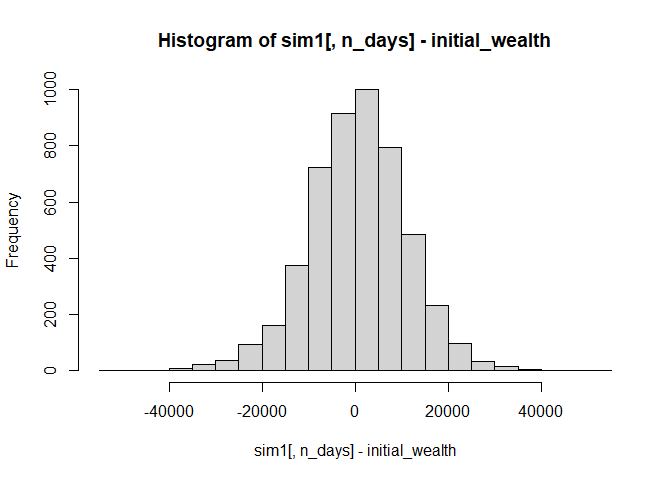
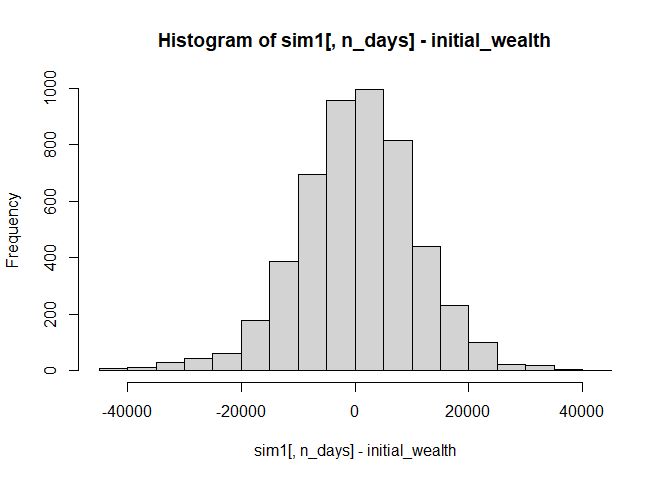
Recompiled the markdown file

diff --git a/Solutions.md b/Solutions.md
@@ -23,22 +23,23 @@ truthful clickers answered yes? Hint: use the rule of total probability.
 > find the value of *P*(*Y*\|*T*<sub>*c*</sub>)
 >
 > We know that, <br>
-> *P*(*Y*) = *P*(*Y*\|*R*<sub>*c*</sub>) + *P*(*Y*\|*T*<sub>*c*</sub>)
+> *P*(*Y*) = *P*(*Y*\|*R*<sub>*c*</sub>).*P*(*R*<sub>*c*</sub>) + *P*(*Y*\|*T*<sub>*c*</sub>).*P*(*T*<sub>*c*</sub>)
 >
 > Rearranging, <br>
-> *P*(*Y*\|*T*<sub>*c*</sub>) = *P*(*Y*) − *P*(*Y*\|*R*<sub>*c*</sub>)
+> $P(Y\|T\_{c}) = \frac{ P(Y) - P(Y\|R\_{c}).P(R\_{c}) }{P(T\_{c})}$
 >
 > If a random clicker clicking *Yes* or *No* is equally likely, then the
 > probability (or fraction) of Random clickers, clicking yes \> is
 > (Fraction of users among the 0.3 random clickers, clicking *Yes*),
-> <br> *P*(*Y*\|*R*<sub>*c*</sub>) = 0.5 \* 0.3 = 0.15
+> <br>
+> *P*(*Y*\|*R*<sub>*c*</sub>).*P*(*R*<sub>*c*</sub>) = *P*(*Y*∩*R*<sub>*c*</sub>) = 0.5 \* 0.3 = 0.15
 >
 > Substituting in the rearranged equation, <br>
-> *P*(*Y*\|*T*<sub>*c*</sub>) = 0.65 − 0.15 <br>
-> *P*(*Y*\|*T*<sub>*c*</sub>) = 0.5
+> $P(Y\|T\_{c}) = \frac{0.65 - 0.15}{0.7}$ <br>
+> *P*(*Y*\|*T*<sub>*c*</sub>) = 0.7143
 >
 > Therefore, the fraction of clickers among truthful clickers who
-> clicked yes would be **0.5**
+> clicked yes would be **0.7143**
 
 ## Part. B
 
@@ -477,16 +478,16 @@ $100K capital equally and then find the sum to compute our new total
 wealth at the end of a random day.
 
     ##            ClCl.USOa ClCl.UNGa ClCl.OILKa ClCl.GAZa ClCl.RJNa
-    ## 2021-04-01  20646.44  20250.52    20638.9  20200.33  20406.09
+    ## 2018-01-04  20048.62  19187.82   20144.86     20000  19929.82
 
-    ## [1] 102142.3
+    ## [1] 99311.13
 
 So as we can see on a random day we went from $100,000 in capital to the
 output.
 
 We then observed the change over a time period of two weeks.
 
-    ## [1] 108580.6
+    ## [1] 89136.17
 
 ![](Solutions_files/figure-markdown_github/5e-1.png)
 
@@ -495,40 +496,40 @@ So we can see the change in our capital over the time of 20 days.
 So now we bootstrap this model.
 
     ##               [,1]      [,2]      [,3]      [,4]      [,5]      [,6]      [,7]
-    ## result.1 101808.29 101785.39  98828.47  99548.83  99692.52  99801.02  99549.29
-    ## result.2 100045.72  99322.90 100570.66 101357.61 102474.53 105481.68 107682.10
-    ## result.3 100050.13 100659.60 100436.76 103235.09 101999.01 102369.20 104046.81
-    ## result.4 101504.84 101496.10 101203.75 100463.13 100813.36 100578.94 100064.92
-    ## result.5  99640.78 104848.76 104569.78 104768.20 104762.68 104139.09 105010.67
-    ## result.6  98814.49  99730.43  97932.11  99658.97  99076.46 102565.13 103201.71
-    ##               [,8]      [,9]    [,10]     [,11]    [,12]    [,13]    [,14]
-    ## result.1 100803.58 103367.90 103043.1 104519.19 104631.1 105398.8 109154.3
-    ## result.2 107830.73 107893.20 108543.8 106065.61 106119.2 106101.0 106900.8
-    ## result.3 106052.89 108399.09 112568.1 110490.95 105275.8 104560.5 105604.6
-    ## result.4 100355.11 101754.97 103103.6 101982.29 102683.6 103064.8 102329.8
-    ## result.5 111152.48 110954.61 110556.3 110519.18 105873.2 106786.6 108426.0
-    ## result.6  96884.16  96458.59  98875.8  98939.17 100578.8 100068.0 100836.6
+    ## result.1 100989.40 102100.33 102360.68 102114.07 100530.00 102116.26 101845.80
+    ## result.2 100849.19 100610.43 102317.43 102659.90 104695.37 102995.76 102140.23
+    ## result.3  98526.21  96178.98  93428.07  96118.63  97365.90  96107.42  92910.20
+    ## result.4 101207.14 101357.41 103097.15 102404.62 102438.06 103526.79 103680.58
+    ## result.5 100013.65 101636.12 103396.15 102946.00 103465.55 104633.22 104505.64
+    ## result.6 100381.62 100430.27 100496.29 101030.80  99386.44  99028.49  96227.49
+    ##               [,8]      [,9]    [,10]     [,11]     [,12]     [,13]     [,14]
+    ## result.1 103459.96 104645.22 100487.2  92906.51  91412.11  92057.06  89512.86
+    ## result.2 102781.37 102036.55 102834.1 100625.47  99878.43 100573.82 101892.06
+    ## result.3  91971.84  92421.26  92250.6  92960.33  94130.89  92343.75  92905.43
+    ## result.4 102853.14 101428.12 101687.9  72747.64  72857.11  73765.71  74222.99
+    ## result.5 103014.29 106120.36 106868.1 107190.42 106443.46 105931.99 105379.57
+    ## result.6  96215.88  94978.26 101160.5 102550.97 103522.16 106377.94 105283.09
     ##              [,15]     [,16]     [,17]     [,18]     [,19]     [,20]
-    ## result.1 111549.81 111213.55 112641.87 112116.52 112340.65 114050.07
-    ## result.2 106160.55 106793.98 107106.84 107775.77 107286.37 107961.36
-    ## result.3 107073.31 108525.18 109447.67 108791.49 110962.28 111289.85
-    ## result.4 102137.68 102400.68 101277.26  98221.75  99616.15 100721.42
-    ## result.5  98318.53  97516.12  98087.07  96965.91  95772.41  96393.26
-    ## result.6 102068.15  99790.70  99990.09  99762.98  96070.27  94823.14
+    ## result.1  91090.06  93646.21  94201.86  95119.60  94996.29  95985.08
+    ## result.2 102076.07 102724.75 103453.78 100697.30  97773.06  99993.50
+    ## result.3  92820.57  95151.59  94484.20  94953.78  95563.47  96276.36
+    ## result.4  73358.90  73799.80  74788.87  74802.03  75188.45  71871.48
+    ## result.5 104043.04 102144.35 100705.52  99609.42  98684.32  99774.72
+    ## result.6 104779.26 105171.13 104385.29 103599.42 101880.57 101297.27
 
 ![](Solutions_files/figure-markdown_github/5f-1.png)
 
 So we can see the distribution of capital after bootstrapping. It is
 mostly normal.
 
-    ## [1] 100573.7
+    ## [1] 100395.9
 
-    ## [1] 573.6578
+    ## [1] 395.8743
 
 ![](Solutions_files/figure-markdown_github/5g-1.png)
 
     ##        5% 
-    ## -16577.25
+    ## -16780.43
 
 So this is our ultimate gain/loss, which can vary from time to time.
 
@@ -569,16 +570,16 @@ capital equally and then find the sum to compute our new total wealth at
 the end of a random day.
 
     ##            ClCl.VTOa ClCl.IEMGa ClCl.GEMa ClCl.DEMa ClCl.PXHa
-    ## 2021-04-09  20834.22   19831.55  19855.25  19842.48  19831.56
+    ## 2021-10-15  19924.24   20250.99  20170.03  20102.66  20200.35
 
-    ## [1] 100195.1
+    ## [1] 100648.3
 
 So as we can see on a random day we went from $100,000 in capital to
 output \[1\]. This amount varies from day to day.
 
 We then observed the change over a time period of two weeks.
 
-    ## [1] 96619.27
+    ## [1] 99867.22
 
 ![](Solutions_files/figure-markdown_github/5l-1.png)
 
@@ -586,41 +587,41 @@ So we can see the change in our capital over the time of 20 days.
 
 So now we bootstrap this model.
 
-    ##               [,1]      [,2]      [,3]      [,4]      [,5]      [,6]      [,7]
-    ## result.1  98554.22  98128.01  98234.84  98176.70  97127.19  98207.35  98561.66
-    ## result.2 100834.10 101449.46 102195.68 100765.33  99633.36  99519.99  99423.39
-    ## result.3 101874.64 101861.63 102304.81 102467.09 104116.18 103008.67 102499.69
-    ## result.4 100460.82 100213.10  99027.44  99001.77  98754.29  97630.51  97026.05
-    ## result.5 100430.22 101800.72 102217.79 103680.91 103926.77 103752.29 105977.03
-    ## result.6  99892.15  99673.65 100418.31 100824.99 101471.65 102113.20  97455.37
+    ##               [,1]      [,2]      [,3]     [,4]      [,5]      [,6]      [,7]
+    ## result.1 100491.29 100642.68 100760.12 102671.0 103132.11 103182.49 101342.30
+    ## result.2  99372.05  99382.29  99892.92 101066.1 101266.12 100963.79  99750.27
+    ## result.3  98332.92  98027.08  96449.08  94707.8  94652.51  95387.62  95968.30
+    ## result.4 101102.95 101721.62 101113.94 100835.5 101432.60 100406.98 100964.53
+    ## result.5 100477.43 101171.34 100791.21 100838.8 100100.92  98830.90  99287.10
+    ## result.6 101347.27 101874.21 101875.70 101785.5 101356.79 101458.29 101498.04
     ##               [,8]      [,9]     [,10]     [,11]     [,12]     [,13]     [,14]
-    ## result.1  97531.65  96073.34  95667.56  95917.66  96227.76  96093.04  97934.11
-    ## result.2 100272.06 100110.90 100710.74 100209.88 100023.85  99572.50  99066.42
-    ## result.3 103210.87 103714.86 103401.93 102966.85 102768.12 103581.35 102409.68
-    ## result.4  98199.88  99444.47  99400.65  99512.62  99850.29  98575.71  98192.49
-    ## result.5 107605.72 109165.65 109428.95 110332.28 110607.59 110889.29 111584.26
-    ## result.6  98530.32  98604.02  98908.84  98374.34  99235.94 100205.59 100817.84
+    ## result.1 101469.20 101328.34 101896.32 102709.97 103778.54 105058.60 106051.00
+    ## result.2  99862.16 100708.48 101581.01 103386.52 102371.01 104136.36 103657.46
+    ## result.3  95529.98  94907.61  94642.96  95635.30  96069.71  95237.51  95180.39
+    ## result.4 102368.54 103197.48 104253.28 102669.77 102319.16 102753.42 104026.78
+    ## result.5  98896.95  99398.40  98392.20  99293.98 100205.47 101045.22 100244.01
+    ## result.6 101212.98 101635.30 101260.90 100007.88  99717.38  99067.60  97506.18
     ##              [,15]     [,16]     [,17]     [,18]     [,19]     [,20]
-    ## result.1  99256.11  99087.64  98464.69  97517.44  97043.69  97286.42
-    ## result.2  99577.84  98737.25  99742.07  98902.29  99234.95 100424.75
-    ## result.3 102701.65 103745.29 103908.06 104454.76 104520.74 102749.56
-    ## result.4  97999.09  98528.89  97369.97  97483.24  97339.62  94936.97
-    ## result.5 112782.10 113440.81 113754.51 114324.59 115505.60 114958.56
-    ## result.6 101367.43 101299.92 101239.97 101699.49 101193.48 106809.53
+    ## result.1 105486.08 105943.69 104836.69 103903.95 103451.62 103694.98
+    ## result.2 103724.97 103838.65 103732.05 104180.59 104100.17 105115.11
+    ## result.3  94654.48  95933.16  96666.36  96988.34  96639.29  97429.17
+    ## result.4 105988.75 107528.39 106124.06 105946.41 107235.24 107190.79
+    ## result.5 100796.01 101765.27 100295.45 100792.24 100928.03 101156.60
+    ## result.6  98825.53  99600.34  99996.77  99864.89  99273.61  98033.50
 
 ![](Solutions_files/figure-markdown_github/5m-1.png)
 
 So we can see the distribution of capital after bootstrapping. It is
 mostly normal.
 
-    ## [1] 100586.7
+    ## [1] 100494.8
 
-    ## [1] 586.6699
+    ## [1] 494.8226
 
 ![](Solutions_files/figure-markdown_github/5n-1.png)
 
     ##        5% 
-    ## -7832.953
+    ## -7981.886
 
 So our ultimate gain/loss would be output \[1\]. This could vary due to
 randomization in bootstrapping.
@@ -661,16 +662,16 @@ capital equally and then find the sum to compute our new total wealth at
 the end of a random day.
 
     ##            ClCl.XHEa ClCl.PSCHa ClCl.IHEa ClCl.PBEa ClCl.FHLCa
-    ## 2018-02-09  20200.97    20262.4  20223.25  20111.02   20274.88
+    ## 2020-12-14   19946.4   20075.87  19944.82  20782.73   19915.67
 
-    ## [1] 101072.5
+    ## [1] 100665.5
 
 So as we can see on a random day we went from $100,000 in capital to
 output\[1\].
 
 We then observed the change over a time period of two weeks.
 
-    ## [1] 97318.17
+    ## [1] 95815.05
 
 ![](Solutions_files/figure-markdown_github/5s-1.png)
 
@@ -678,41 +679,41 @@ So we can see the change in our capital over the time of 20 days.
 
 So now we bootstrap this model.
 
-    ##               [,1]      [,2]     [,3]      [,4]     [,5]      [,6]      [,7]
-    ## result.1 100308.84 100232.35 100247.1  99510.29  99607.9  99839.79 100055.62
-    ## result.2 100807.96 100465.35 100124.5 100111.94 100126.1 100671.27 100388.47
-    ## result.3  99486.52 100806.16 101154.0 101802.58 101752.4 100139.85 100737.51
-    ## result.4  99458.88  99518.47 100809.3 101343.25  97787.1  96638.45  97111.94
-    ## result.5  99643.44 100532.66 100696.4 100382.91 101522.4 100202.35  98574.88
-    ## result.6 100131.97 101439.11 101494.2 100487.44 100545.6 102565.05 103668.56
-    ##               [,8]     [,9]     [,10]     [,11]     [,12]     [,13]     [,14]
-    ## result.1 100522.28 101437.7 101460.18 102592.91 102552.56 101035.22 101364.38
-    ## result.2 102937.87 102428.0 103475.25 103261.23 104246.13 104225.26 104745.68
-    ## result.3 101486.83 101755.6 102073.11 102171.39 101863.26  99918.41 100341.58
-    ## result.4  94527.26  95637.7  95885.57  95602.74  95778.32  97051.05  97628.77
-    ## result.5  98256.98  97285.1  99495.85 102202.96 103401.38 103360.51 103980.25
-    ## result.6 105067.21 105786.6 106036.00 107731.99 108000.35 107538.00 106982.87
-    ##              [,15]     [,16]     [,17]     [,18]    [,19]    [,20]
-    ## result.1 101037.01  99143.20  98755.31  95862.34  97448.5 100899.1
-    ## result.2 104000.65 101998.63 102216.52 102396.01 102454.1 103019.8
-    ## result.3 100907.28 100164.52 100303.88 101552.86 101924.2 103350.1
-    ## result.4  97526.21  99207.24  99221.29 100499.18 100519.6 101652.3
-    ## result.5 103844.70 105650.49 104466.14 102610.93 103360.1 103213.2
-    ## result.6 107169.60 107918.45 109186.69 108268.64 109262.1 107573.7
+    ##               [,1]      [,2]      [,3]      [,4]      [,5]      [,6]     [,7]
+    ## result.1  99784.78  99701.53  97951.02  96396.57  98336.98  98292.94  98209.0
+    ## result.2 101681.39 102744.80 101458.22 101172.82 102354.47 102944.76 102269.2
+    ## result.3  99382.43  98819.28  96071.35  96139.02  94187.02  93808.13  92933.2
+    ## result.4 100412.85  99250.03 100006.60  99879.09 100732.75 101009.70 101538.4
+    ## result.5 100893.95 101334.67 102253.51 102558.24 102757.33 104525.91 105640.4
+    ## result.6 100272.54  99800.92  99457.47 100020.67  99622.18 100549.34 101486.3
+    ##               [,8]      [,9]     [,10]     [,11]     [,12]     [,13]     [,14]
+    ## result.1  93430.89  93377.33  91494.99  91957.36  92923.77  93830.43  91980.93
+    ## result.2 103159.32 104161.15 100785.13 102125.05 100947.68 103757.74 104489.36
+    ## result.3  93469.53  93947.69  93967.46  96211.30  95720.60  97038.71  94603.70
+    ## result.4 101804.52 103130.63 102907.41 102508.10 103800.16 102570.31 102490.36
+    ## result.5 106422.55 109015.08 110213.55 110600.99 109471.41 105584.49 107494.18
+    ## result.6 102974.68 105920.38 106112.22 107125.81 104554.63 104052.66 104918.10
+    ##              [,15]     [,16]     [,17]     [,18]     [,19]     [,20]
+    ## result.1  91950.66  91172.50  90577.32  90541.81  88110.92  88051.87
+    ## result.2 101585.14 103176.53 103724.22 103896.96 103932.84 103946.20
+    ## result.3  93689.53  93002.84  93252.66  92908.84  94550.16  94461.67
+    ## result.4 100025.99 100821.89 100282.76 102904.82 102646.30 105715.94
+    ## result.5 107130.03 107776.49 107942.54 107269.03 105436.38 103735.95
+    ## result.6 104486.97 105273.45 104600.72 104760.15 105311.15 104170.24
 
 ![](Solutions_files/figure-markdown_github/5t-1.png)
 
 So we can see the distribution of capital after bootstrapping. It is
 mostly normal.
 
-    ## [1] 101060.8
+    ## [1] 100688.2
 
-    ## [1] 1060.779
+    ## [1] 688.1599
 
 ![](Solutions_files/figure-markdown_github/5u-1.png)
 
     ##        5% 
-    ## -9138.233
+    ## -9134.328
 
 So our ultimate gain/loss would be output \[1\]. However, this could
 change due to randomization in bootstrapping.
@@ -2783,9 +2784,9 @@ grocery_rules = apriori(grocery_trans, parameter=list(support=.01, confidence=.5
     ## Absolute minimum support count: 98 
     ## 
     ## set item appearances ...[0 item(s)] done [0.00s].
-    ## set transactions ...[169 item(s), 9835 transaction(s)] done [0.00s].
+    ## set transactions ...[169 item(s), 9835 transaction(s)] done [0.01s].
     ## sorting and recoding items ... [88 item(s)] done [0.00s].
-    ## creating transaction tree ... done [0.00s].
+    ## creating transaction tree ... done [0.01s].
     ## checking subsets of size 1 2 3 4
 
     ## Warning in apriori(grocery_trans, parameter = list(support = 0.01, confidence
@@ -2877,7 +2878,7 @@ grocery_rules= apriori(grocery_trans, parameter=list(support=.005, confidence=.5
     ## Absolute minimum support count: 49 
     ## 
     ## set item appearances ...[0 item(s)] done [0.00s].
-    ## set transactions ...[169 item(s), 9835 transaction(s)] done [0.00s].
+    ## set transactions ...[169 item(s), 9835 transaction(s)] done [0.01s].
     ## sorting and recoding items ... [120 item(s)] done [0.00s].
     ## creating transaction tree ... done [0.00s].
     ## checking subsets of size 1 2 3 4
@@ -2886,7 +2887,7 @@ grocery_rules= apriori(grocery_trans, parameter=list(support=.005, confidence=.5
     ## = 0.5, : Mining stopped (maxlen reached). Only patterns up to a length of 4
     ## returned!
 
-    ##  done [0.00s].
+    ##  done [0.01s].
     ## writing ... [120 rule(s)] done [0.00s].
     ## creating S4 object  ... done [0.00s].
 
@@ -3188,7 +3189,7 @@ grocery_rules = apriori(grocery_trans, parameter=list(support=.002, confidence=.
     ## Absolute minimum support count: 19 
     ## 
     ## set item appearances ...[0 item(s)] done [0.00s].
-    ## set transactions ...[169 item(s), 9835 transaction(s)] done [0.00s].
+    ## set transactions ...[169 item(s), 9835 transaction(s)] done [0.01s].
     ## sorting and recoding items ... [147 item(s)] done [0.00s].
     ## creating transaction tree ... done [0.00s].
     ## checking subsets of size 1 2 3 4
@@ -3197,7 +3198,7 @@ grocery_rules = apriori(grocery_trans, parameter=list(support=.002, confidence=.
     ## = 0.8, : Mining stopped (maxlen reached). Only patterns up to a length of 4
     ## returned!
 
-    ##  done [0.00s].
+    ##  done [0.01s].
     ## writing ... [6 rule(s)] done [0.00s].
     ## creating S4 object  ... done [0.00s].
 
@@ -3245,9 +3246,9 @@ grocery_rules <- apriori(grocery_trans, parameter=list(support=.0015,
     ## Absolute minimum support count: 14 
     ## 
     ## set item appearances ...[0 item(s)] done [0.00s].
-    ## set transactions ...[169 item(s), 9835 transaction(s)] done [0.00s].
+    ## set transactions ...[169 item(s), 9835 transaction(s)] done [0.01s].
     ## sorting and recoding items ... [153 item(s)] done [0.00s].
-    ## creating transaction tree ... done [0.00s].
+    ## creating transaction tree ... done [0.01s].
     ## checking subsets of size 1 2 3 4 5
 
     ## Warning in apriori(grocery_trans, parameter = list(support = 0.0015, confidence
